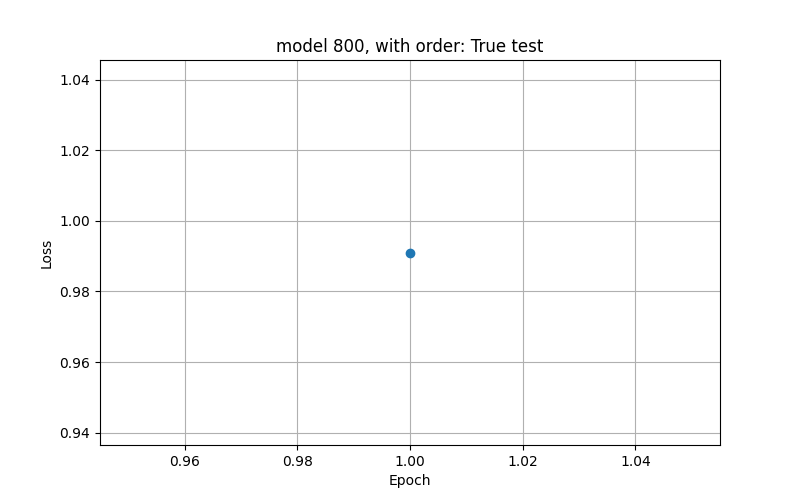
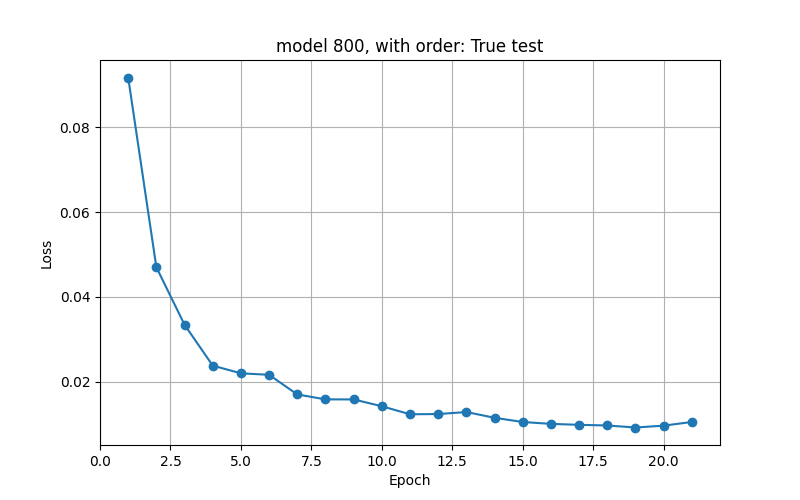
tested newly trained models. Found out they work suprisinly well with low timesteps

diff --git a/code/inference/main.py b/code/inference/main.py
@@ -149,18 +149,24 @@ def get_inference_result(problem_type, instance_idx, model_type, order: bool):
         print("beginning on cache")
         threshold = 0.02
         # SAMPLES
-        n_samples = 32
+        n_samples = 360
         n_ops = int(torch.count_nonzero(target_assignments))
 
         timesteps = 100
-        sampling_steps = 60
+        #sampling_steps = 60
         ddim_eta = 1.0
 
 
-        #adj_model_path = f"/cluster/datastore/vemundvb/diffusion/diff_project/mindre_prosjekt/models/mk01/adj_timestep_{timesteps}.pth"
+        adj_model_path = f"/cluster/datastore/vemundvb/diffusion/diff_project/mindre_prosjekt/models/mk01/adj_timestep_{timesteps}.pth"
+        #adj_model_path = f"/cluster/datastore/vemundvb/diffusion/diff_project/mindre_prosjekt/models/mk01/adj_type_adj_order_{order}.pth"
+        #adj_model_path = f"/cluster/datastore/vemundvb/diffusion/diff_project/mindre_prosjekt/models/cos_beta/timestep_1000_cos.pth"
+        #adj_model_path = f"/cluster/datastore/vemundvb/diffusion/diff_project/mindre_prosjekt/models/cos_beta/timestep_1000_beta.pth"
+        #adj_model_path = f"/cluster/datastore/vemundvb/diffusion/diff_project/mindre_prosjekt/models/cos_beta/timestep_1000_cos.pth"
+        #adj_model_path = f"/cluster/datastore/vemundvb/diffusion/diff_project/mindre_prosjekt/models/mk01/adj_timestep_200.pth"
+
 
         # === DDIM
-        #inference_assignments, elapsed, assignments_over_time = experimental.adj_inference_ddi0m(proc_times, job_ops_adj, ops_ma_adj, adj_model_path, n_samples, mask_h, mask_w, sampling_steps = sampling_steps, ddim_eta = ddim_eta, timesteps = timesteps)
+        #inference_assignments, elapsed, assignments_over_time = experimental.adj_inference_ddim(proc_times, job_ops_adj, ops_ma_adj, adj_model_path, n_samples, mask_h, mask_w, sampling_steps = sampling_steps, ddim_eta = ddim_eta, timesteps = timesteps)
         #elapsed = None 
         #assignments_over_time = None
         ## == CACHE
@@ -169,11 +175,8 @@ def get_inference_result(problem_type, instance_idx, model_type, order: bool):
         t_replace = 995
         # inference_assignments, elapsed, assignments_over_time = inference.adj_inference_ddpm_batch_influence(proc_times, job_ops_adj, ops_ma_adj, adj_model_path, n_samples, mask_h, mask_w, t_replace, ops_sequence_order, valid_h, valid_w, n_ops)
         # === VANLID
-        adj_model_path = f"/cluster/datastore/vemundvb/diffusion/diff_project/mindre_prosjekt/models/mk01/adj_type_adj_order_{order}.pth"
-        #adj_model_path = f"/cluster/datastore/vemundvb/diffusion/diff_project/mindre_prosjekt/models/cos_beta/timestep_1000_beta.pth"
-        #adj_model_path = f"/cluster/datastore/vemundvb/diffusion/diff_project/mindre_prosjekt/models/mk01/adj_timestep_200.pth"
         cos = True
-        #inference_assignments, elapsed, assignments_over_time = inference.adj_inference_ddpm(proc_times, job_ops_adj, ops_ma_adj, adj_model_path, n_samples, mask_h, mask_w, timesteps, cos)
+        inference_assignments, elapsed, assignments_over_time = inference.adj_inference_ddpm(proc_times, job_ops_adj, ops_ma_adj, adj_model_path, n_samples, mask_h, mask_w, timesteps, cos)
         eta = 0.9
         #inference_assignments, elapsed, assignments_over_time = inference.adj_inference_ddim(proc_times, job_ops_adj, ops_ma_adj, adj_model_path, n_samples, mask_h, mask_w, eta, ddim_steps)
         # === GUIDENCE
@@ -181,7 +184,7 @@ def get_inference_result(problem_type, instance_idx, model_type, order: bool):
         ops_seq_order = td["ops_sequence_order"]
         job_lengts = compute_job_lengths(ops_seq_order)
         #job_lengts = [5, 6, 5, 6, 6, 6, 5, 6, 6, 5, 0,0,0,0] 
-        inference_assignments, elapsed, assignments_over_time = guidence.adj_inference_ddpm_cos(job_lengts, proc_times, job_ops_adj, ops_ma_adj, adj_model_path, n_samples, mask_h, mask_w, valid_h, valid_w, n_ops, ops_seq_order, timesteps, True)
+        #inference_assignments, elapsed, assignments_over_time = guidence.adj_inference_ddpm_cos(job_lengts, proc_times, job_ops_adj, ops_ma_adj, adj_model_path, n_samples, mask_h, mask_w, valid_h, valid_w, n_ops, ops_seq_order, timesteps, True)
 
         # print(done_at_t)
         print(columns_done)
@@ -228,12 +231,16 @@ def get_inference_result_cached(model_type: str, order: bool, instance_idx, w, h
     print(f"amount of same instances: {dups}")
 
     report, total_errors, error_list = utils.assert_sequence_respected(inference_assignments, td["ops_sequence_order"])
+    amt_feas = 0
     for key, value in report.items():
         if value["total"] == 0:
+            amt_feas += 1
             print(f"{key} .. {value} .. NO ERRORS")
         else:
             print(f"{key} .. {value}")
     print(f"Total errors: {total_errors}")
+    print(f"Total feasible schedules: {amt_feas}")
+    exit()
     # CHECKING WHEN IN INFERENCE THE RESULT BECAME SIMILAIR TO THE END RESUeckT
     # utils.check_when_inference_makes_final_schedule(assignments_over_time, inference_assignments, order, ops_ma_adj, valid_h, valid_w)
 

diff --git a/code/inference/experimental.py b/code/inference/experimental.py
@@ -182,7 +182,7 @@ def adj_inference_ddim(
     proc_times, job_ops_adj, ops_ma_adj,
     model_path, n_samples,
     h_when_masked, w_when_masked,
-    sampling_steps = 50,   # fewer steps than 1000
+    sampling_steps = 100,   # fewer steps than 1000
     ddim_eta = 0.0,         # eta=0 => deterministic DDIM
     timesteps=1000
 

diff --git a/code/inference/utils.py b/code/inference/utils.py
@@ -238,6 +238,7 @@ def assert_sequence_respected(ma_seq_matrix, ops_sequence_order, do_print=True, 
                 }
             }
     """
+    total_feasible_schedules = 0
 
     # ---- normalize shape ----
     if ma_seq_matrix.dim() == 4:
